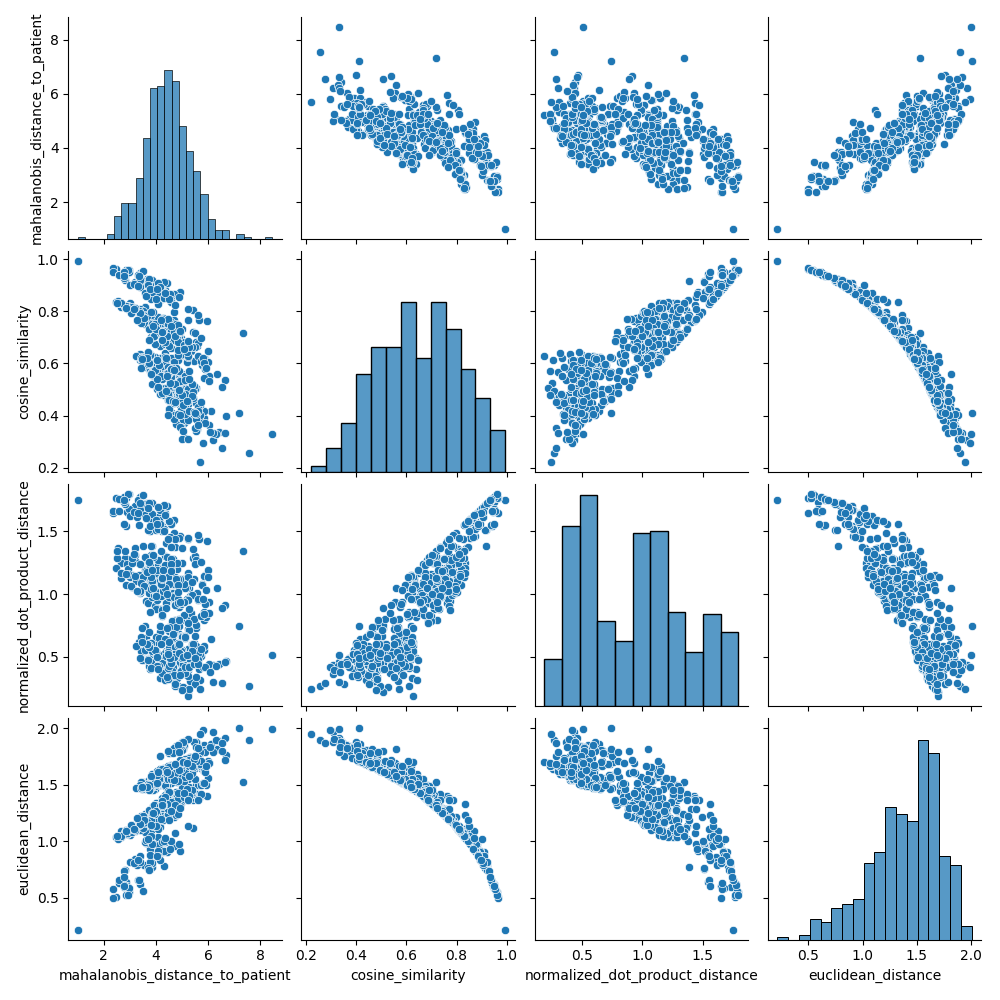
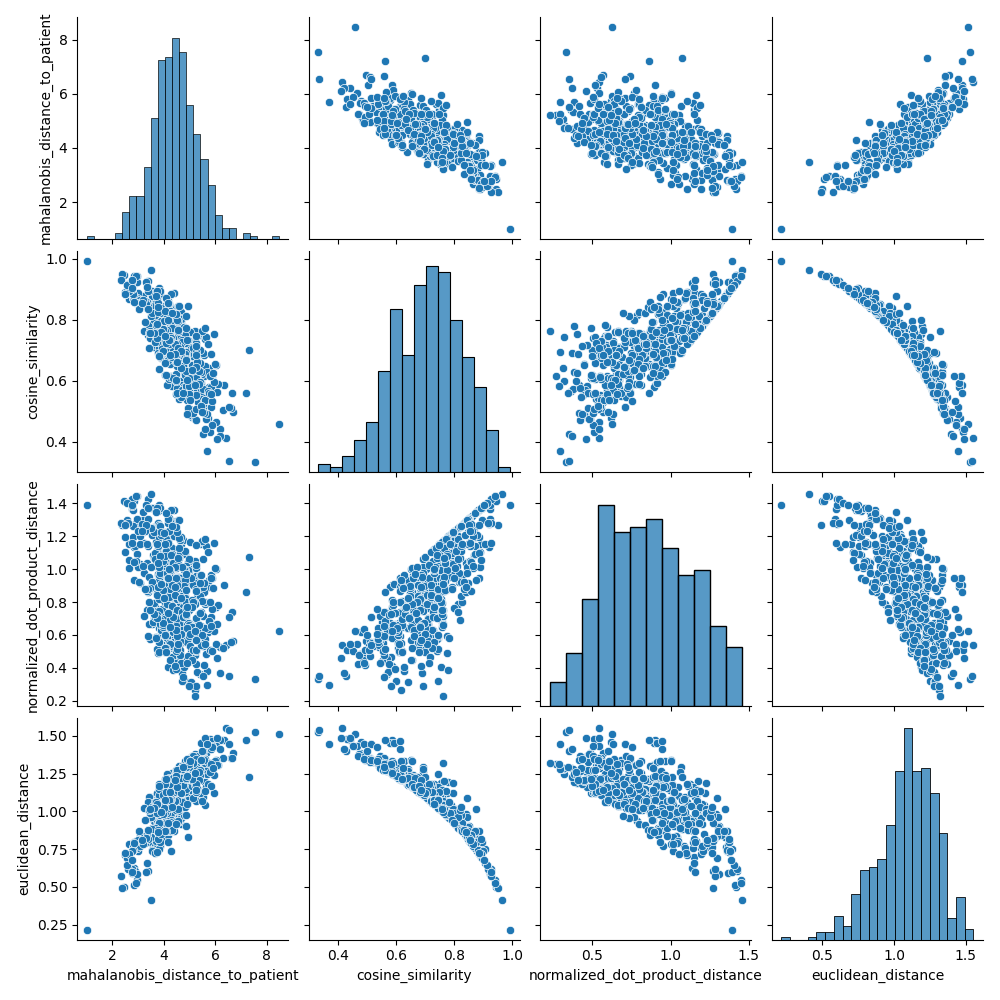
add umap hperparam tuning

diff --git a/UMAP_visuals.py b/UMAP_visuals.py
@@ -1,0 +1,150 @@
+from distances import cohort, y, patient, patient_y
+from distances import like_me_cohort, like_me_y
+from distances import like_me_cohort_original, patient_original
+from distances import sample, idx
+
+import pandas as pd 
+import numpy as np
+import time as time
+
+import matplotlib.pyplot as plt
+from mpl_toolkits.mplot3d import Axes3D
+import seaborn as sn
+
+import umap
+
+###########
+cohort.head()
+print(patient)
+
+# create masks for each subject
+like_me_mask = np.zeros(len(cohort), dtype=bool)
+like_me_mask[np.array(idx, dtype=int)] = True
+
+patient_mask = np.zeros(len(cohort), dtype=bool)
+patient_mask[sample] = True
+
+cohort_mask = ~(patient_mask | like_me_mask)
+
+################
+# UMAP for loop to tune hyper_params
+start = time.time()
+
+randomness = [42, 43, 44, 45, 1997, 1989]
+neighbors = [5, 10, 20, 40, 80, 100, 150, 200]
+min_d = [0.0, 0.01, 0.05, 0.10, 0.25, 0.50, 0.75, 0.90, 0.99]
+metric = ['euclidean', 'cosine', 'correlation', 'mahalanobis', 'yule']
+spread = [0.001, 0.05, 0.10, 0.25, 0.50, 0.75, 1.0, 1.5, 2.0, 4.0]
+
+umap_performance = []
+
+for r in randomness:
+    for n in neighbors:
+        for d in min_d:
+            for m in metric:
+                for s in spread:
+
+                    # spread must be >= min_d
+                    if s < d:
+                        continue
+
+                    # umap process
+                    reducer = umap.UMAP(
+                        n_neighbors=n,
+                        min_dist=d,
+                        metric=m,
+                        spread=s,
+                        random_state=r
+                        )
+                    two_dim = reducer.fit_transform(cohort)
+
+                    # separate idx for within like-me sample and not
+                    within_idx = np.where(like_me_mask)[0]
+                    between_idx = np.where(cohort_mask)[0]
+
+                    # calculate centroids as the patient point
+                    patient_point = two_dim[patient_mask][0]
+
+                    within_centroid = patient_point
+                    between_centroid = patient_point
+
+                    # within euclidean distance sum of squares
+                    within_ss = 0
+                    for i in within_idx:
+                        # calc euclidean distance
+                        euclid_dist_within = np.linalg.norm(two_dim[i] - within_centroid)
+                        within_ss += np.dot(euclid_dist_within, euclid_dist_within)
+            
+                    # between sum of squares
+                    between_ss = 0
+                    for j in between_idx:
+                        # calc euclidean distance
+                        euclid_dist_btwn = np.linalg.norm(two_dim[j] - between_centroid)
+                        between_ss += np.dot(euclid_dist_btwn, euclid_dist_btwn)
+                    
+                    if between_ss == 0:
+                        between_ss += 0.0001
+                    # get the ratio
+                    ratio = within_ss/between_ss
+
+                    # save params and performance
+                    umap_performance.append({
+                        'randomness': r,
+                        'neighbors': n,
+                        'min_d': d,
+                        'metric': m,
+                        'spread': s,
+                        'within_sum_of_squares': within_ss,
+                        'between_sum_of_squares': between_ss,
+                        'ratio': ratio
+                    })
+
+end = time.time()
+print(f"{(end-start)/60} minutes to run")
+
+# save performance
+umap_performance = pd.DataFrame(umap_performance)
+umap_performance.sort_values(by='ratio', ascending=True, inplace=True)
+umap_performance.to_csv("../Data/umap_performance.csv")
+
+umap_performance.head()
+
+#############
+# final UMAP with tuned hyper_params
+reducer = umap.UMAP(
+    n_neighbors=umap_performance['neighbors'].iloc[0],
+    min_dist=umap_performance['min_d'].iloc[0],
+    metric=umap_performance['metric'].iloc[0],
+    spread=umap_performance['spread'].iloc[0],
+    random_state=umap_performance['randomness'].iloc[0]
+    )
+two_dim = reducer.fit_transform(cohort)
+
+# plot
+plt.figure(figsize=(6, 5))
+plt.scatter(two_dim[cohort_mask, 0], two_dim[cohort_mask, 1], s=16, alpha=0.7, label='Cohort', color='lightgrey')
+plt.scatter(two_dim[like_me_mask, 0], two_dim[like_me_mask, 1], s=28, alpha=0.9, label='Like-me patients', color='slategrey')
+plt.scatter(two_dim[patient_mask, 0], two_dim[patient_mask, 1], s=80, marker='x', linewidths=2, label='Patient', color='firebrick')
+plt.legend(loc='best', frameon=False)
+plt.xlabel('UMAP-1'); plt.ylabel('UMAP-2')
+plt.tight_layout()
+plt.savefig("./figs/UMAP", dpi=300)
+plt.show()
+
+##############
+# try t-sne
+from sklearn.manifold import TSNE
+
+t_reducer = TSNE(n_components = 2, random_state=1989)
+tsne_data = t_reducer.fit_transform(cohort)
+
+# plot
+plt.figure(figsize=(6, 5))
+plt.scatter(tsne_data[cohort_mask, 0], tsne_data[cohort_mask, 1], s=16, alpha=0.7, label='Cohort', color='lightgrey')
+plt.scatter(tsne_data[like_me_mask, 0], tsne_data[like_me_mask, 1], s=28, alpha=0.9, label='Like-me patients', color='slategrey')
+plt.scatter(tsne_data[patient_mask, 0], tsne_data[patient_mask, 1], s=80, marker='x', linewidths=2, label='Patient', color='firebrick')
+plt.legend(loc='best', frameon=False)
+plt.xlabel('TSNE-1'); plt.ylabel('TSNE-2')
+plt.tight_layout()
+plt.savefig("./figs/TSNE", dpi=300)
+plt.show()

diff --git a/distances.py b/distances.py
@@ -1,6 +1,6 @@
-from pre_processing import X
-from pre_processing import y
+from pre_processing import X, y
 from pre_processing import X_mins, X_ranges
+from pre_processing import categorical_scaler, categoricals
 
 import random 
 import numpy as np
@@ -128,7 +128,10 @@ like_me_y.head()
 ###########
 ## Undo min-max scaling
 like_me_cohort_original = (like_me_cohort * X_ranges) + (X_mins)
+like_me_cohort_original[categoricals] = (like_me_cohort_original[categoricals])/categorical_scaler
+
 patient_original = (patient * X_ranges) + X_mins
+patient_original[categoricals] = (patient_original[categoricals])/categorical_scaler
 
 ##############
 ## Summary stats

diff --git a/pre_processing.py b/pre_processing.py
@@ -4,6 +4,11 @@ pd.set_option("display.max_columns", None)
 
 from sklearn.impute import KNNImputer
 
+#################
+# Categorical scaling value
+categorical_scaler = 0.66
+#################
+
 # Load in data 
 df = pd.read_excel("../Data/dat.xlsx")
 
@@ -63,6 +68,6 @@ X.describe()
 # down-weight categoricals - contributing too much to distance metrics
 X[categoricals].describe()
 
-X[categoricals] = X[categoricals]*0.66
+X[categoricals] = X[categoricals]*categorical_scaler
 
 X[categoricals].describe()
